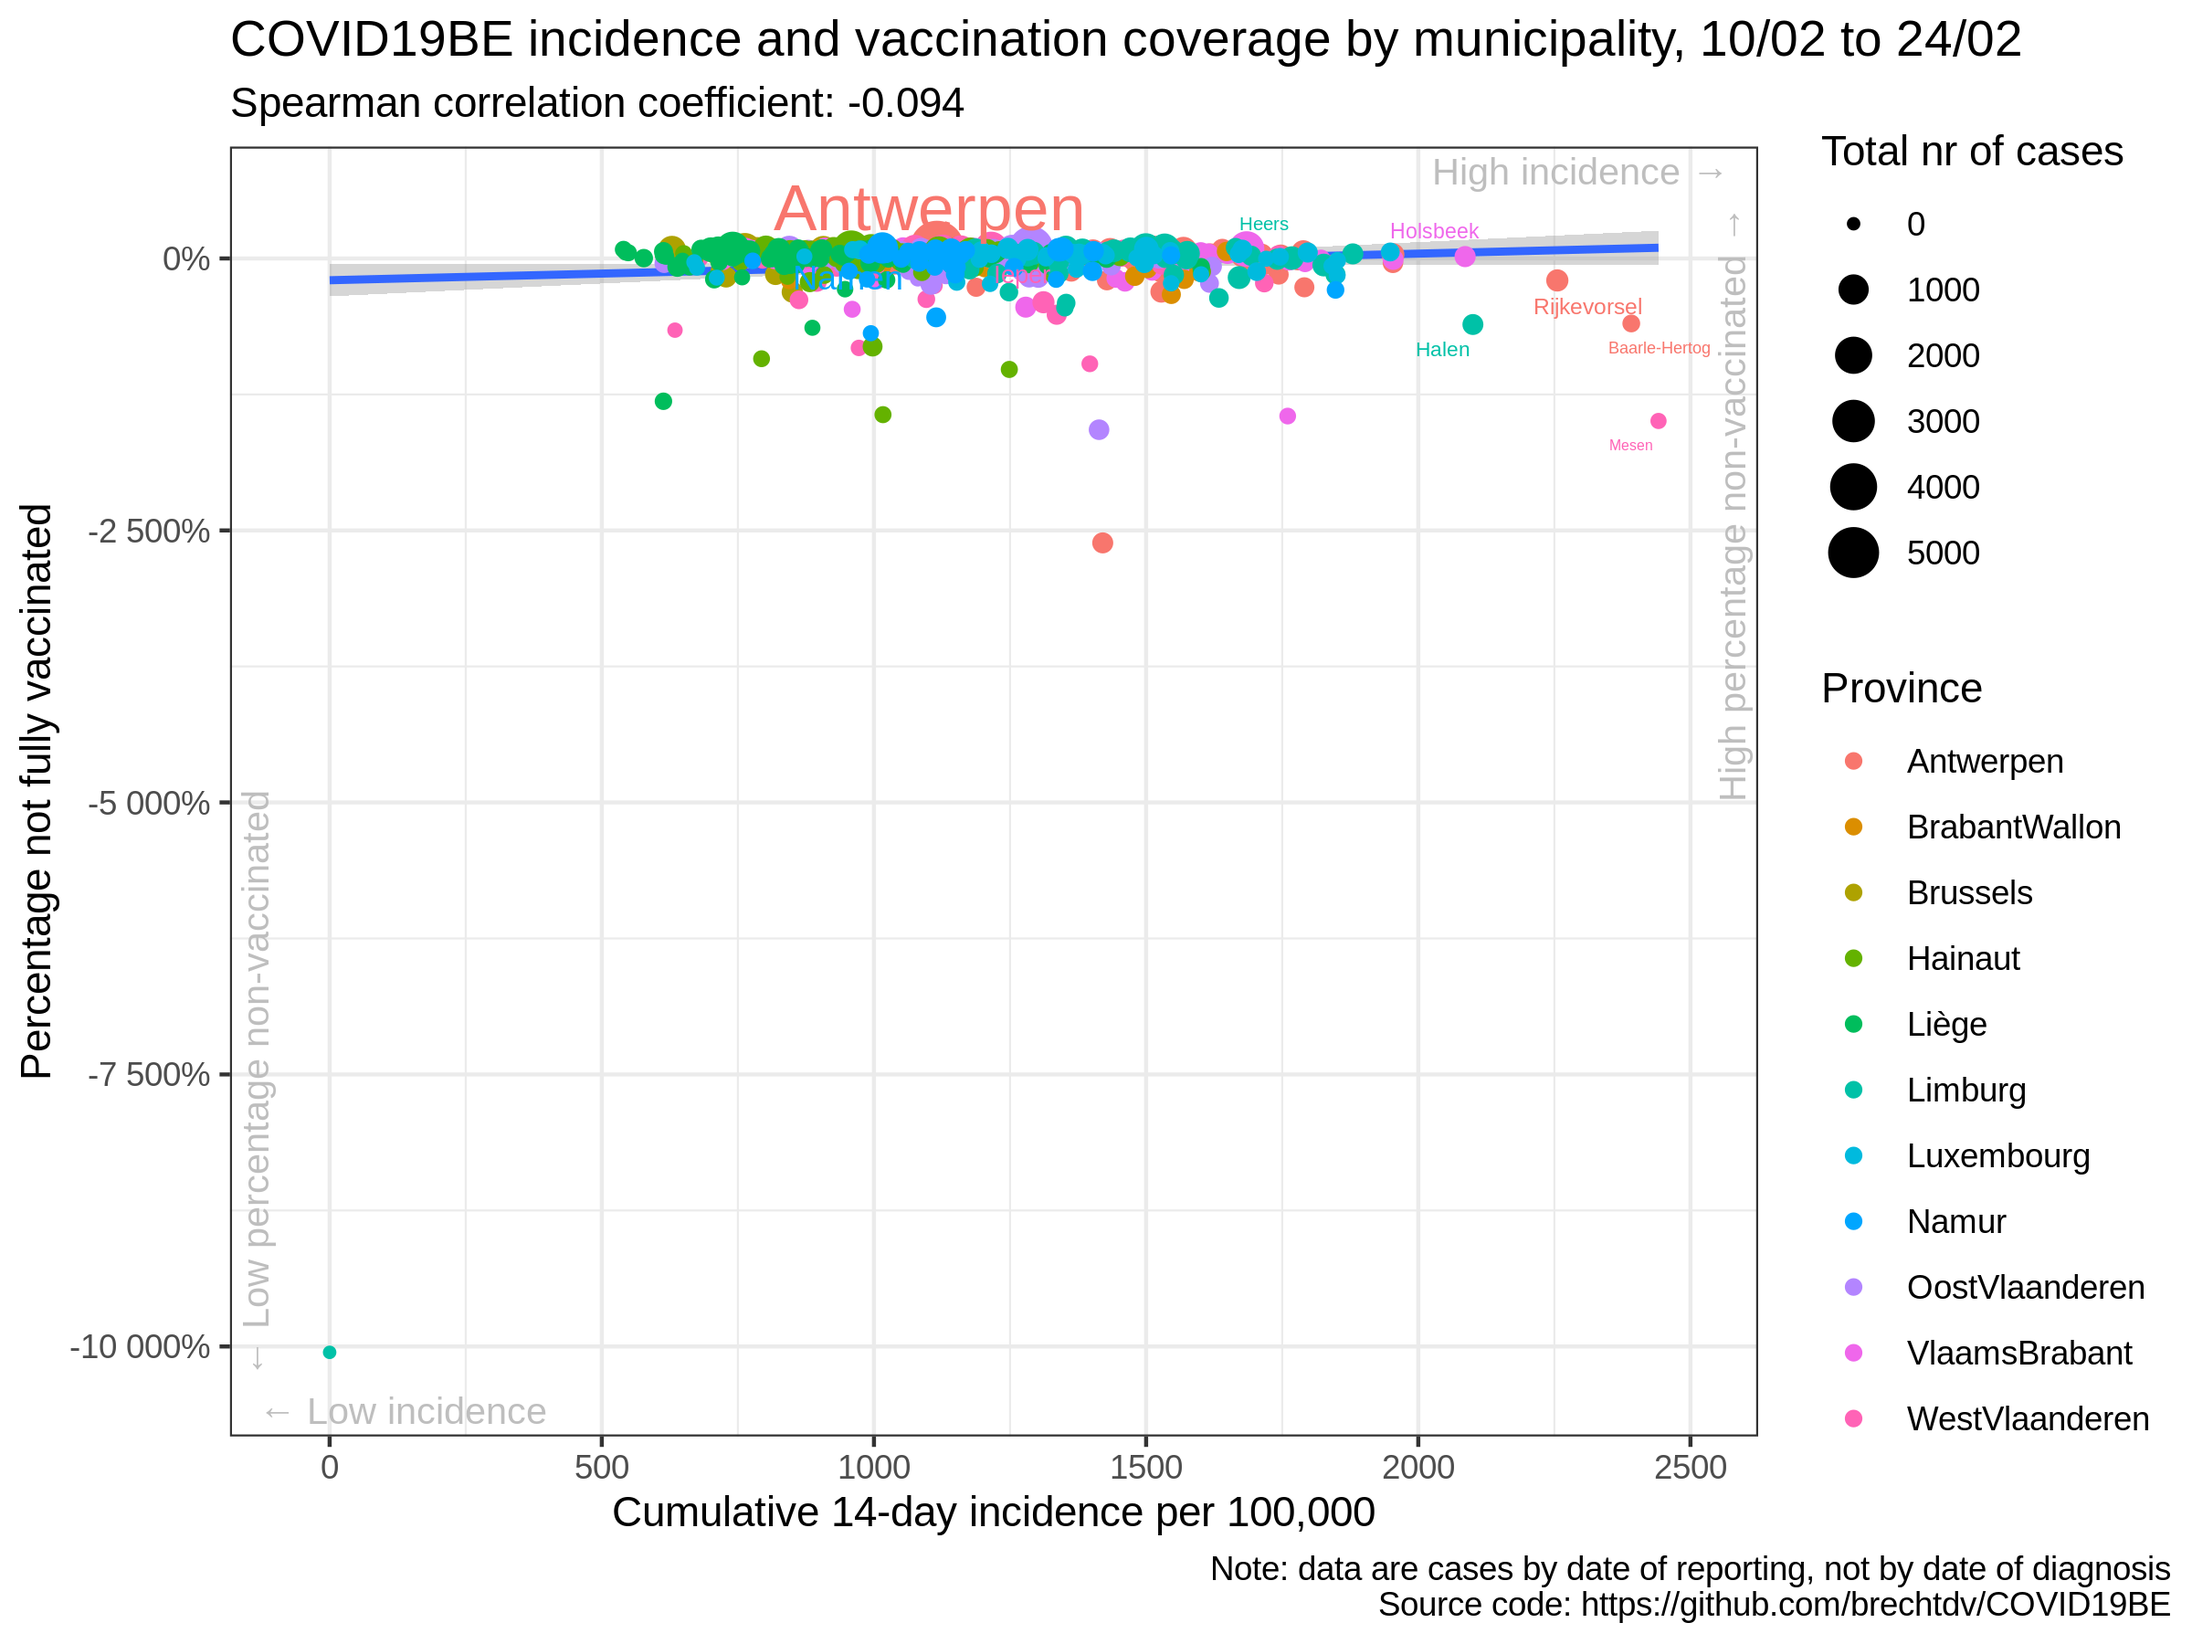
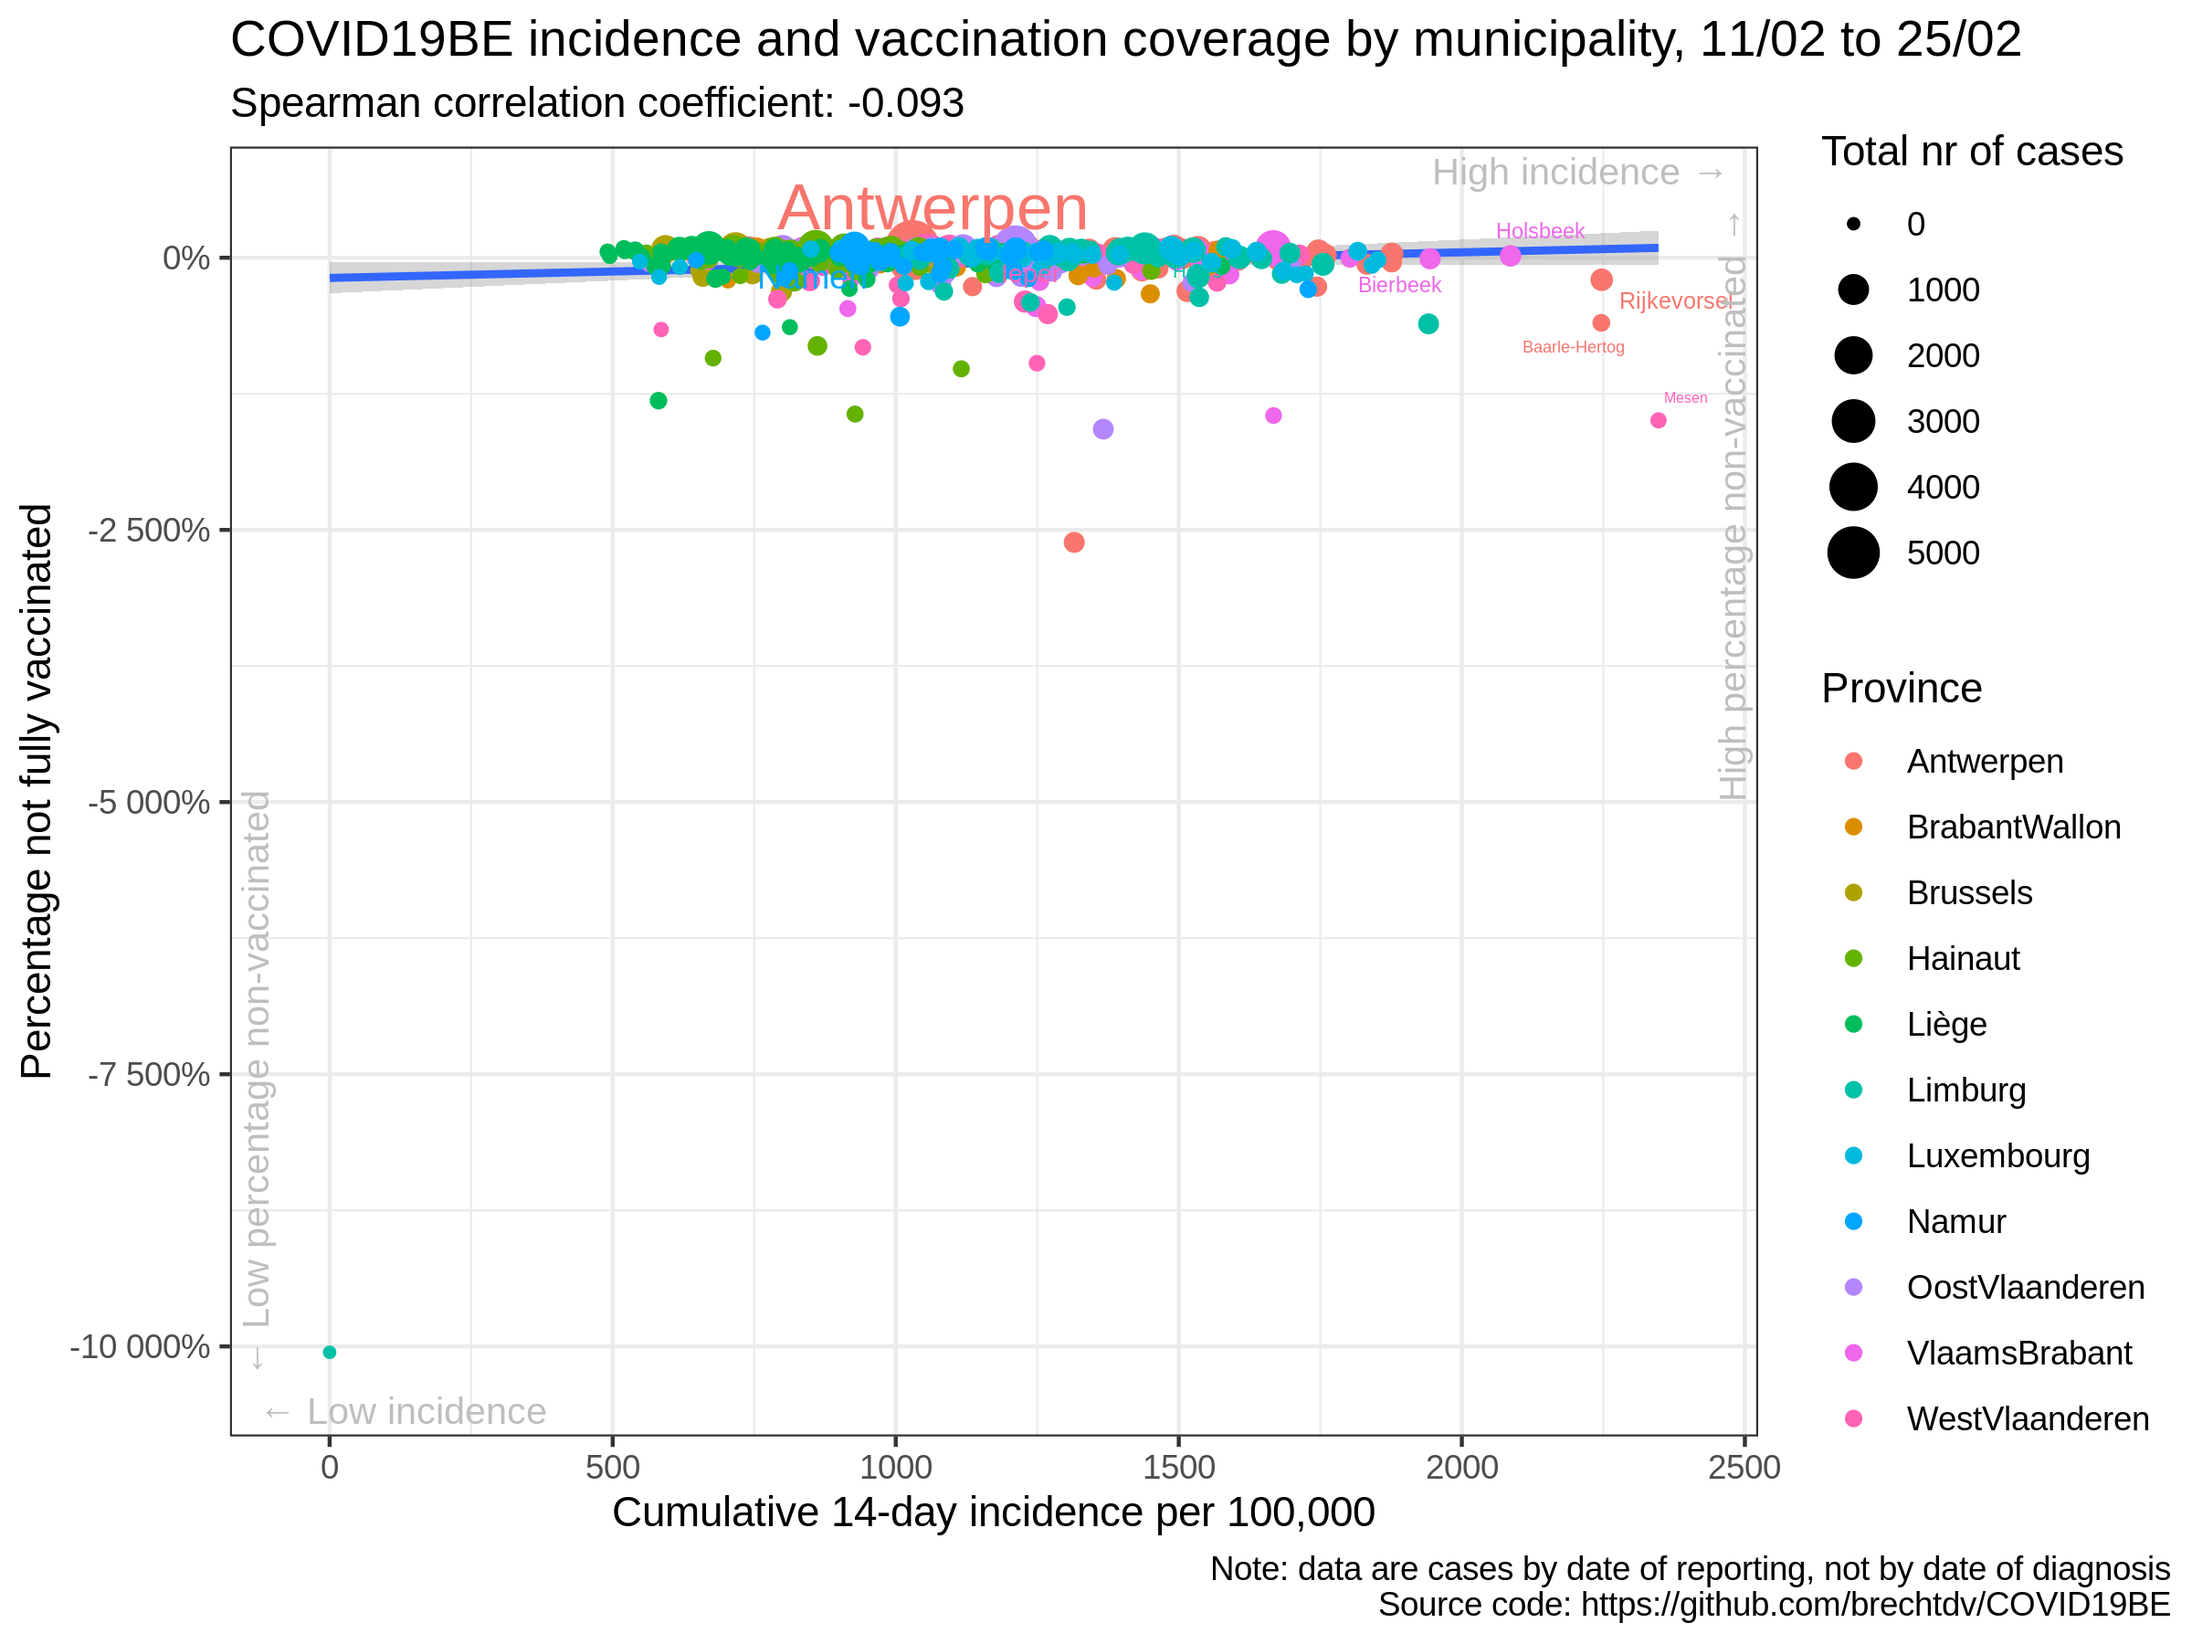
update situation

diff --git a/vaccination/README.md b/vaccination/README.md
@@ -17,35 +17,35 @@
 
 |                | estimate.rho | p.value |
 | :------------- | -----------: | ------: |
-| Antwerpen      |      \-0.160 |   0.187 |
-| BrabantWallon  |      \-0.337 |   0.086 |
-| Brussels       |      \-0.267 |   0.269 |
-| Hainaut        |      \-0.019 |   0.878 |
-| Liège          |      \-0.103 |   0.351 |
-| Limburg        |        0.050 |   0.750 |
-| Luxembourg     |      \-0.067 |   0.665 |
-| Namur          |        0.008 |   0.963 |
-| OostVlaanderen |      \-0.128 |   0.327 |
-| VlaamsBrabant  |      \-0.137 |   0.277 |
-| WestVlaanderen |        0.114 |   0.370 |
-| Belgium        |      \-0.094 |   0.023 |
+| Antwerpen      |      \-0.133 |   0.277 |
+| BrabantWallon  |      \-0.302 |   0.126 |
+| Brussels       |      \-0.140 |   0.565 |
+| Hainaut        |      \-0.045 |   0.711 |
+| Liège          |      \-0.193 |   0.078 |
+| Limburg        |        0.059 |   0.708 |
+| Luxembourg     |      \-0.092 |   0.551 |
+| Namur          |        0.134 |   0.429 |
+| OostVlaanderen |      \-0.153 |   0.243 |
+| VlaamsBrabant  |      \-0.125 |   0.321 |
+| WestVlaanderen |        0.118 |   0.351 |
+| Belgium        |      \-0.093 |   0.025 |
 
 ### Correlation cumulative incidence vs booster rate
 
 |                | estimate.rho | p.value |
 | :------------- | -----------: | ------: |
-| Antwerpen      |      \-0.170 |   0.162 |
-| BrabantWallon  |      \-0.338 |   0.085 |
-| Brussels       |      \-0.293 |   0.223 |
-| Hainaut        |      \-0.026 |   0.834 |
-| Liège          |      \-0.106 |   0.338 |
-| Limburg        |        0.052 |   0.744 |
-| Luxembourg     |      \-0.054 |   0.726 |
-| Namur          |        0.033 |   0.847 |
-| OostVlaanderen |      \-0.129 |   0.326 |
-| VlaamsBrabant  |      \-0.167 |   0.183 |
-| WestVlaanderen |        0.112 |   0.379 |
-| Belgium        |      \-0.127 |   0.002 |
+| Antwerpen      |      \-0.142 |   0.242 |
+| BrabantWallon  |      \-0.299 |   0.130 |
+| Brussels       |      \-0.154 |   0.527 |
+| Hainaut        |      \-0.052 |   0.671 |
+| Liège          |      \-0.194 |   0.077 |
+| Limburg        |        0.063 |   0.693 |
+| Luxembourg     |      \-0.085 |   0.583 |
+| Namur          |        0.149 |   0.376 |
+| OostVlaanderen |      \-0.154 |   0.238 |
+| VlaamsBrabant  |      \-0.155 |   0.217 |
+| WestVlaanderen |        0.116 |   0.360 |
+| Belgium        |      \-0.128 |   0.002 |
 
 ### Data source
 
